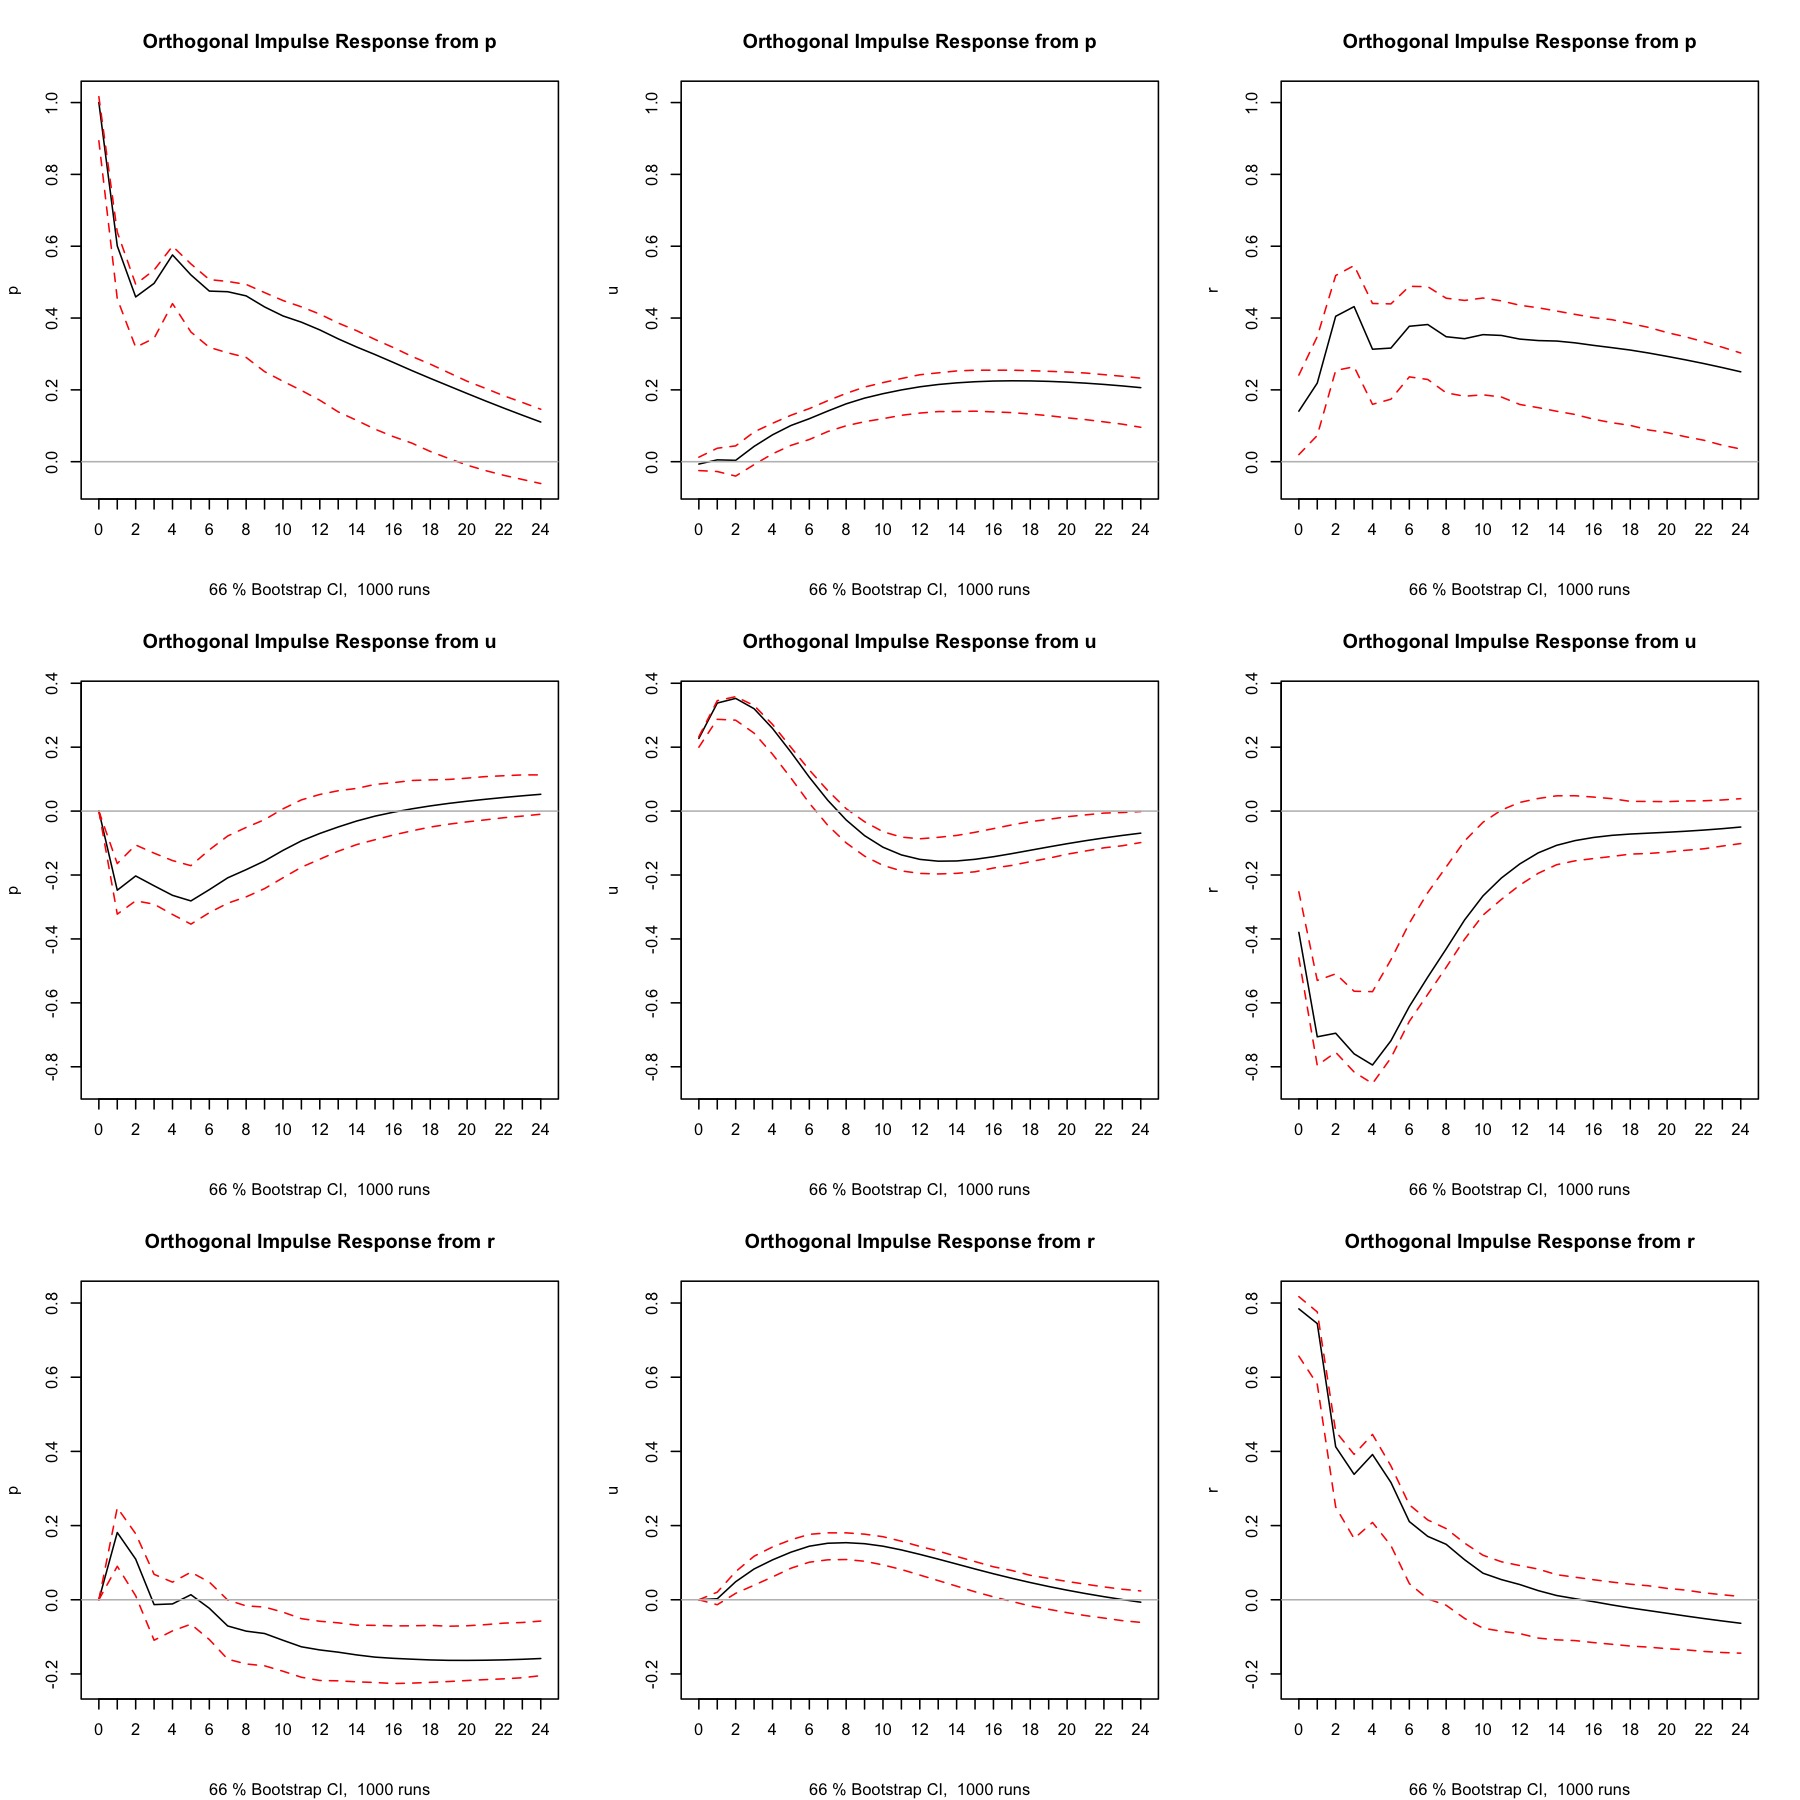
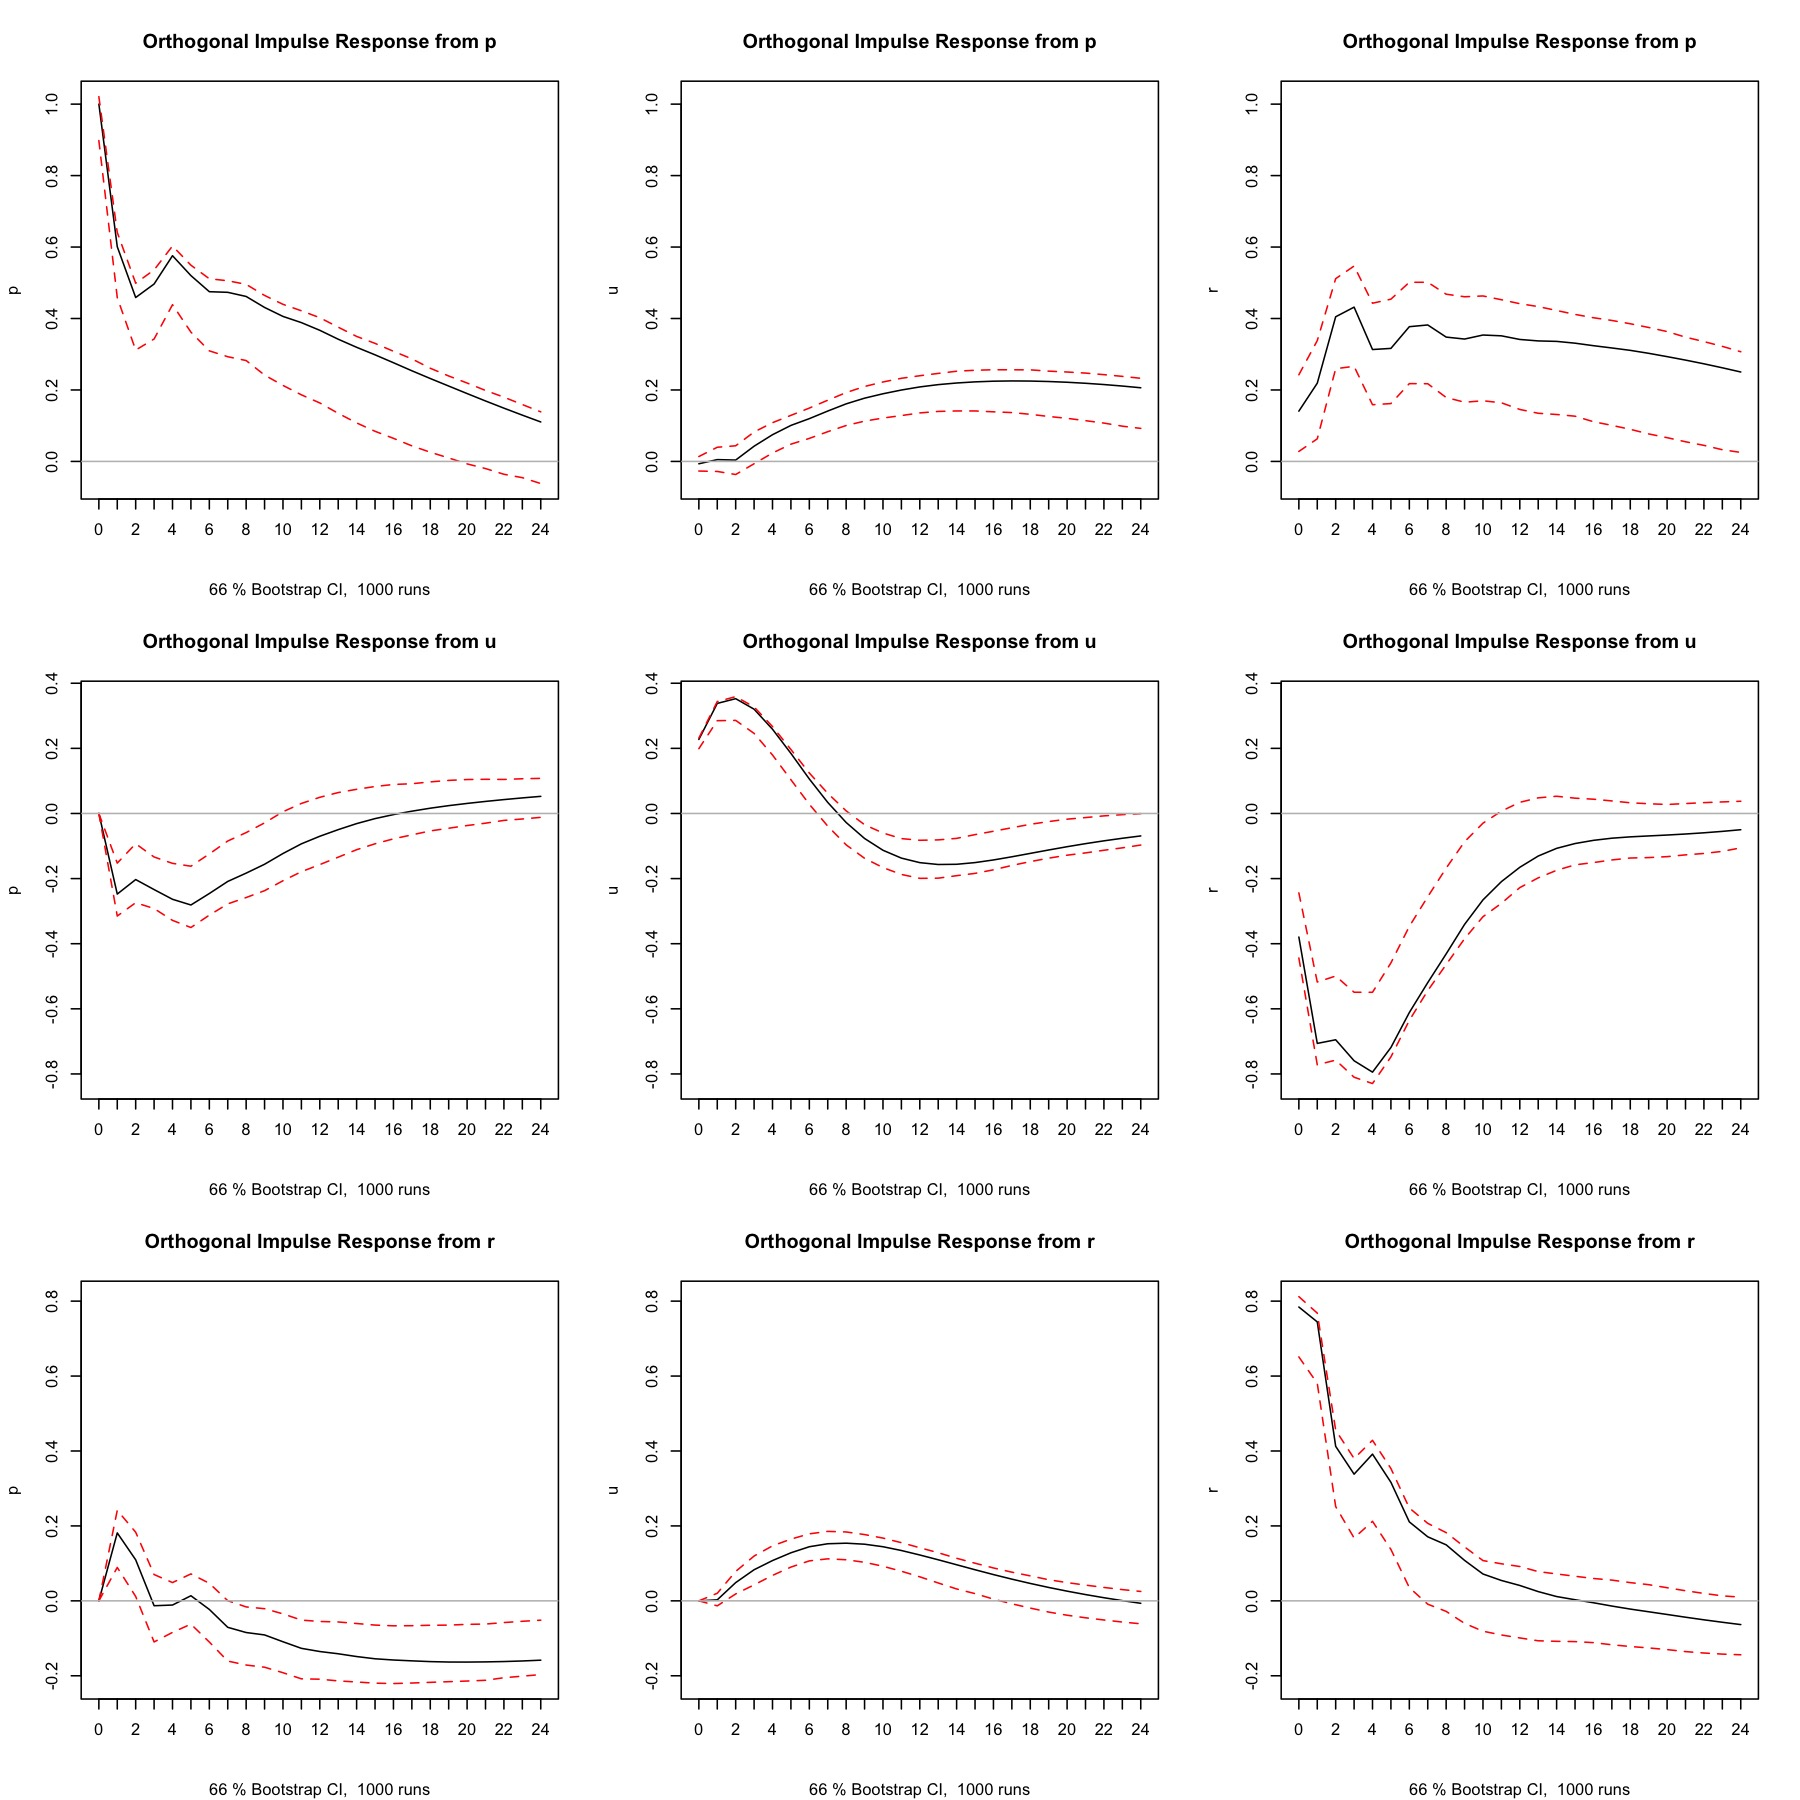
Correction of fig 2 (fig 3) replication

diff --git a/Replication/Figures/Fig_1/Latex/table_1_forecast_err.tex b/Replication/Figures/Fig_1/Latex/table_1_forecast_err.tex
@@ -1,6 +1,6 @@
 
 % Table created by stargazer v.5.2.3 by Marek Hlavac, Social Policy Institute. E-mail: marek.hlavac at gmail.com
-% Date and time: Sat, Apr 25, 2026 - 22:42:02
+% Date and time: Fri, May 15, 2026 - 12:47:07
 \begin{table}[!htbp] \centering 
   \caption{} 
   \label{} 

diff --git a/Replication/Figures/Fig_1/Latex/table_1_panelA_Granger.tex b/Replication/Figures/Fig_1/Latex/table_1_panelA_Granger.tex
@@ -1,6 +1,6 @@
 
 % Table created by stargazer v.5.2.3 by Marek Hlavac, Social Policy Institute. E-mail: marek.hlavac at gmail.com
-% Date and time: Sat, Apr 25, 2026 - 22:41:58
+% Date and time: Fri, May 15, 2026 - 12:47:07
 \begin{table}[!htbp] \centering 
   \caption{} 
   \label{} 

diff --git a/Replication/Figures/Fig_1/Latex/table_1_var_decomp_comb.tex b/Replication/Figures/Fig_1/Latex/table_1_var_decomp_comb.tex
@@ -1,6 +1,6 @@
 
 % Table created by stargazer v.5.2.3 by Marek Hlavac, Social Policy Institute. E-mail: marek.hlavac at gmail.com
-% Date and time: Sat, Apr 25, 2026 - 22:42:00
+% Date and time: Fri, May 15, 2026 - 12:47:07
 \begin{table}[!htbp] \centering 
   \caption{} 
   \label{} 

diff --git a/README.md b/README.md
@@ -20,3 +20,5 @@ question : in the paper: no stationnarity test: KPSS, PP,... no lag choice justi
 IRFs are computed using the same recursive ordering and horizon, but plotted using R’s default axis. Csq : scaling so it diverges a biut in scales compared to the SW IRFs. Moreover using bootstraps ci 0.66 led to asymmetric confidence bounds. but to use gaussian  approximation, one would need to manually construct bands, (estimate standard errors from simulations/bootstrap standard deviations and plot which is heavy).
 
 26/04/26: I try to reproduce the figure 3 cont. I forgot to use VAR predictions for forward and not actual future observations...
+
+30/04/26 "...